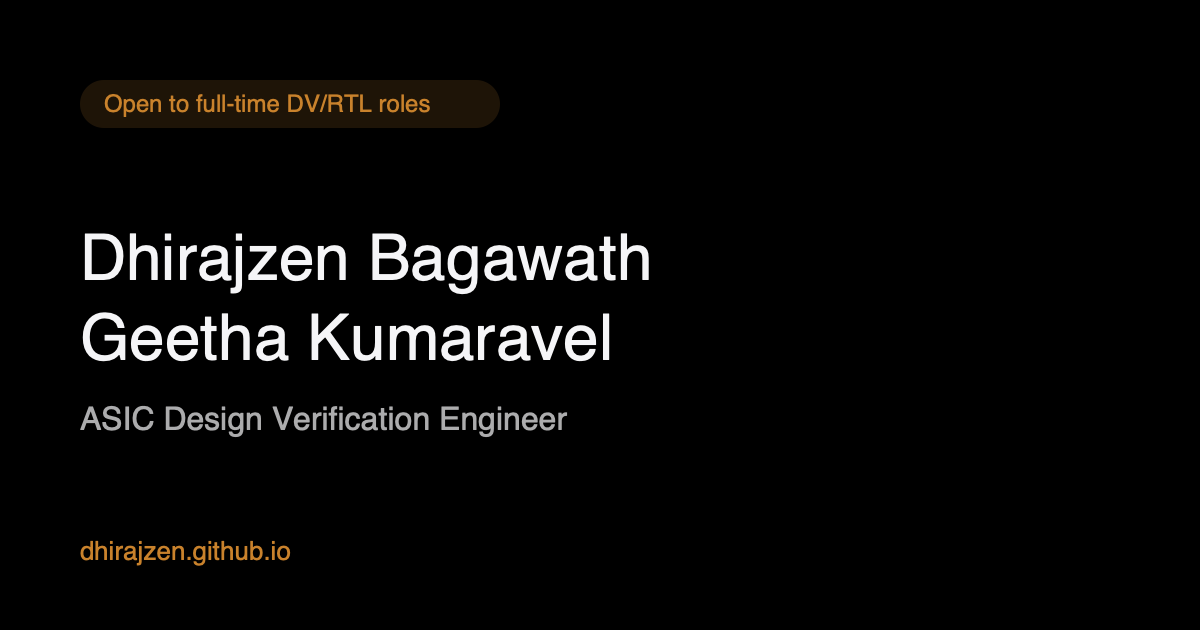
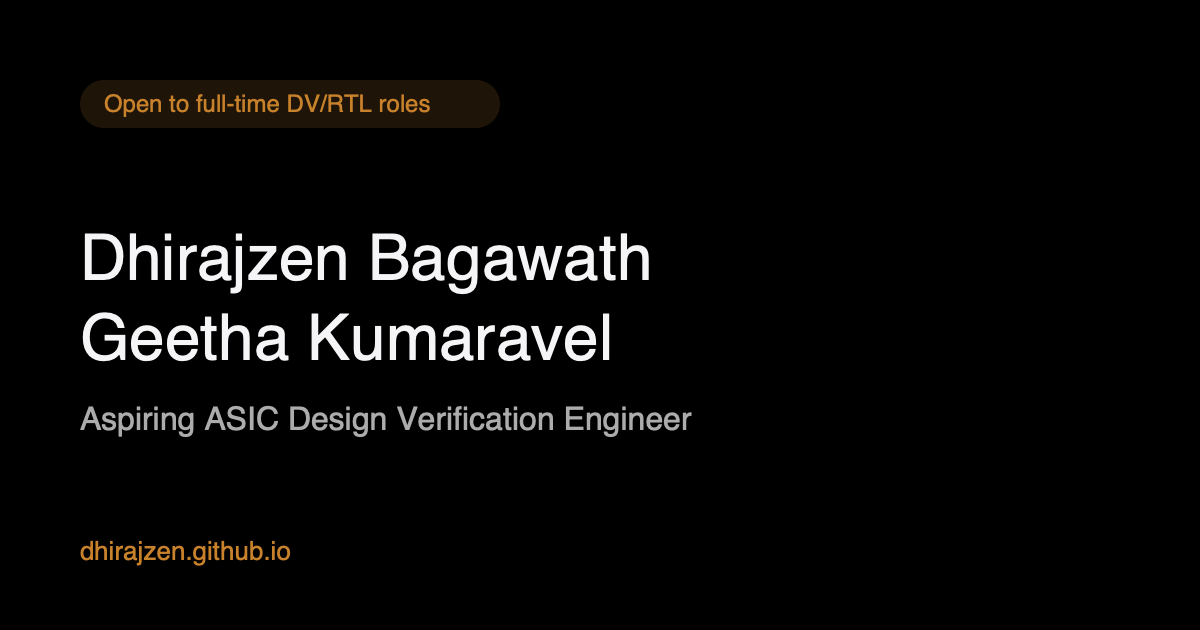
content: title reads Aspiring ASIC DV Engineer, not employed yet
Updated all 7 occurrences (page title, meta description, og:title/
description, twitter:title/description, hero subtitle) plus regenerated
og-image.png to match, so the social-preview card doesn't contradict the
page itself.

Verified: text renders correctly and wraps cleanly at 375px and desktop,
no console errors.

Changed region(s): [[0.0617, 0.6333, 0.5858, 0.6937]]

diff --git a/index.html b/index.html
@@ -4,18 +4,18 @@
   <script>document.documentElement.classList.add('js');</script>
   <meta charset="UTF-8">
   <meta name="viewport" content="width=device-width, initial-scale=1.0">
-  <title>Dhirajzen Bagawath Geetha Kumaravel — ASIC Design Verification Engineer</title>
-  <meta name="description" content="Dhirajzen Bagawath Geetha Kumaravel — ASIC Design Verification Engineer specializing in UVM, SystemVerilog, and AI/LLM tooling for verification. Open to full-time DV/RTL roles.">
+  <title>Dhirajzen Bagawath Geetha Kumaravel — Aspiring ASIC Design Verification Engineer</title>
+  <meta name="description" content="Dhirajzen Bagawath Geetha Kumaravel — Aspiring ASIC Design Verification Engineer specializing in UVM, SystemVerilog, and AI/LLM tooling for verification. Open to full-time DV/RTL roles.">
   <meta property="og:type" content="website">
   <meta property="og:url" content="https://dhirajzen.github.io/">
-  <meta property="og:title" content="Dhirajzen Bagawath Geetha Kumaravel — ASIC Design Verification Engineer">
-  <meta property="og:description" content="ASIC Design Verification Engineer specializing in UVM, SystemVerilog, and AI/LLM tooling for verification. Open to full-time DV/RTL roles.">
+  <meta property="og:title" content="Dhirajzen Bagawath Geetha Kumaravel — Aspiring ASIC Design Verification Engineer">
+  <meta property="og:description" content="Aspiring ASIC Design Verification Engineer specializing in UVM, SystemVerilog, and AI/LLM tooling for verification. Open to full-time DV/RTL roles.">
   <meta property="og:image" content="https://dhirajzen.github.io/og-image.png">
   <meta property="og:image:width" content="1200">
   <meta property="og:image:height" content="630">
   <meta name="twitter:card" content="summary_large_image">
-  <meta name="twitter:title" content="Dhirajzen Bagawath Geetha Kumaravel — ASIC Design Verification Engineer">
-  <meta name="twitter:description" content="ASIC Design Verification Engineer specializing in UVM, SystemVerilog, and AI/LLM tooling for verification. Open to full-time DV/RTL roles.">
+  <meta name="twitter:title" content="Dhirajzen Bagawath Geetha Kumaravel — Aspiring ASIC Design Verification Engineer">
+  <meta name="twitter:description" content="Aspiring ASIC Design Verification Engineer specializing in UVM, SystemVerilog, and AI/LLM tooling for verification. Open to full-time DV/RTL roles.">
   <meta name="twitter:image" content="https://dhirajzen.github.io/og-image.png">
   <link rel="icon" href="favicon.svg" type="image/svg+xml">
   <link rel="stylesheet" href="styles.css">
@@ -60,7 +60,7 @@
     <img src="headshot.jpg" alt="Portrait of Dhirajzen Bagawath Geetha Kumaravel" class="hero-headshot" data-reveal width="144" height="144">
     <p class="status-pill" data-reveal>Open to full-time DV/RTL roles</p>
     <h1 data-reveal>Hi, I'm Dhirajzen — I verify chips, and I build the AI tools that help verify them faster.</h1>
-    <p class="hero-subtitle" data-reveal>ASIC Design Verification Engineer · Brooklyn, NY</p>
+    <p class="hero-subtitle" data-reveal>Aspiring ASIC Design Verification Engineer · Brooklyn, NY</p>
     <nav class="hero-links" aria-label="Primary links" data-reveal>
       <a href="resume.pdf" class="hero-link hero-link--primary">Resume</a>
       <a href="https://github.com/Dhirajzen" class="hero-link">GitHub</a>
